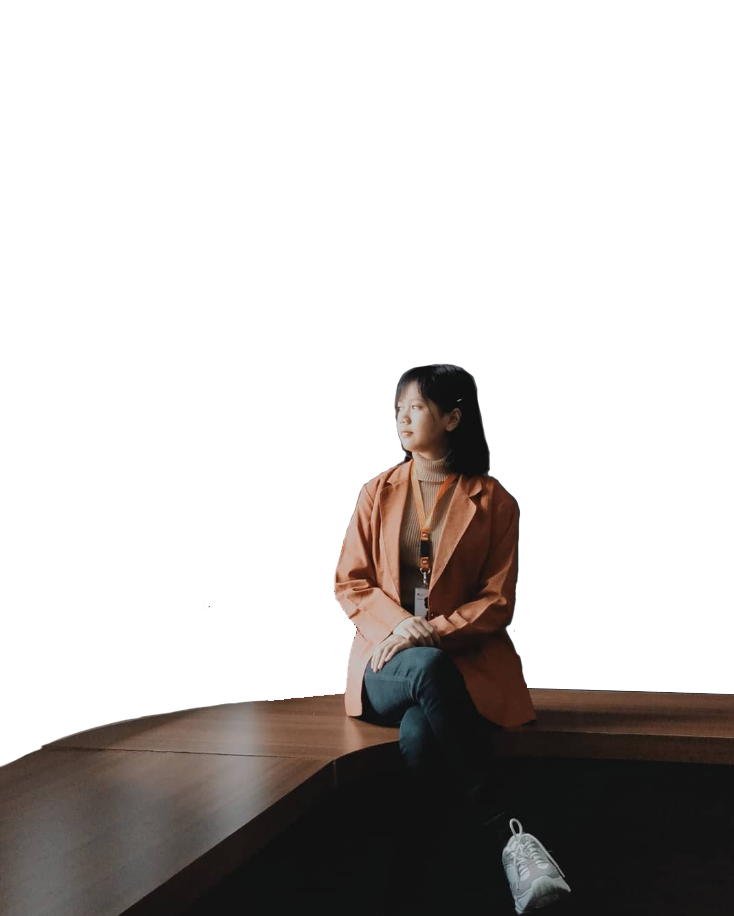
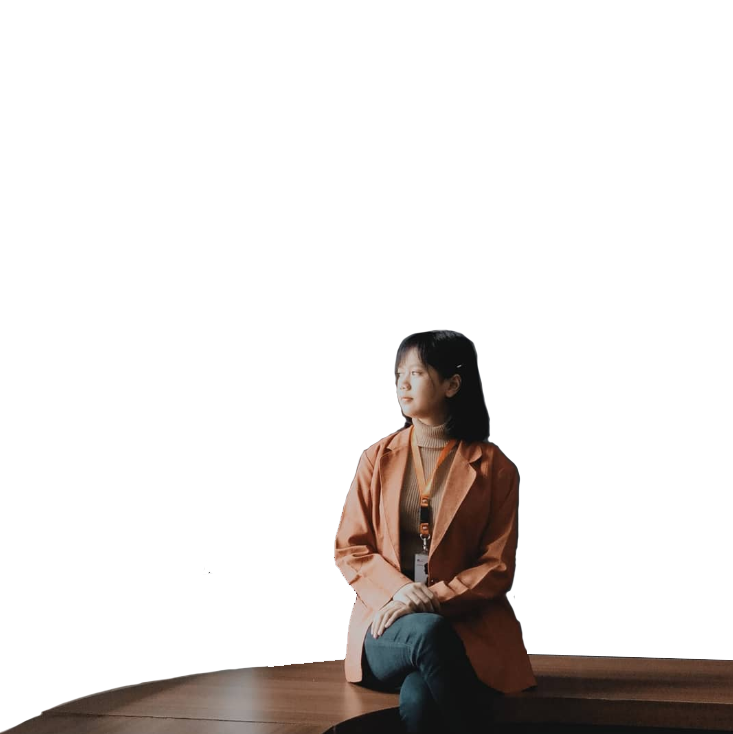
fix img

Changed region(s): [[0.0, 0.3896, 1.0, 1.0]]

diff --git a/public/output.css b/public/output.css
@@ -547,6 +547,11 @@ video {
   margin-right: auto;
 }
 
+.mx-10 {
+  margin-left: 2.5rem;
+  margin-right: 2.5rem;
+}
+
 .flex {
   display: flex;
 }
@@ -563,12 +568,48 @@ video {
   height: 100%;
 }
 
+.h-\[150\%\] {
+  height: 150%;
+}
+
+.h-\[50\%\] {
+  height: 50%;
+}
+
 .w-1\/2 {
   width: 50%;
 }
 
 .w-full {
   width: 100%;
+}
+
+.w-12 {
+  width: 3rem;
+}
+
+.w-10 {
+  width: 2.5rem;
+}
+
+.w-\[150\%\] {
+  width: 150%;
+}
+
+.w-\[50\%\] {
+  width: 50%;
+}
+
+.w-5 {
+  width: 1.25rem;
+}
+
+.w-1\/4 {
+  width: 25%;
+}
+
+.w-3\/4 {
+  width: 75%;
 }
 
 .max-w-7xl {
@@ -581,6 +622,22 @@ video {
 
 .max-w-xs {
   max-width: 20rem;
+}
+
+.flex-initial {
+  flex: 0 1 auto;
+}
+
+.flex-1 {
+  flex: 1 1 0%;
+}
+
+.flex-grow {
+  flex-grow: 1;
+}
+
+.flex-row-reverse {
+  flex-direction: row-reverse;
 }
 
 .flex-wrap {
@@ -634,14 +691,36 @@ video {
   background-color: rgb(228 63 90 / var(--tw-bg-opacity));
 }
 
+.bg-slate-300 {
+  --tw-bg-opacity: 1;
+  background-color: rgb(203 213 225 / var(--tw-bg-opacity));
+}
+
 .object-contain {
   -o-object-fit: contain;
      object-fit: contain;
 }
 
+.p-10 {
+  padding: 2.5rem;
+}
+
+.p-96 {
+  padding: 24rem;
+}
+
+.p-40 {
+  padding: 10rem;
+}
+
 .px-4 {
   padding-left: 1rem;
   padding-right: 1rem;
+}
+
+.py-10 {
+  padding-top: 2.5rem;
+  padding-bottom: 2.5rem;
 }
 
 .text-center {

diff --git a/public/index.html b/public/index.html
@@ -27,11 +27,11 @@
   </div>
 </nav>
 
-  <div class="flex m-16">
-    <div class="mx-auto text-white">
+  <div class="flex">
+    <div class="text-white bg-blue-200 w-1/2">
       <span>Hello, I'm <b>Lintang Arsa Naura</b></span><br>
       <span>A Front-End Web and Design Enthusiast.</span> 
-        <p>
+        <p class="py-10">
           A second-year Informatics major student seeking opportunities in Front-End Web Development and Product Design. 
           With a passion for technology and a curiosity for exploring new possibilities, I thrive on experimenting with the 
           latest tech and programming languages.Balancing teamwork with individual initiative, I'm committed to making valuable 
@@ -41,7 +41,9 @@
           Download CV
         </button>
     </div>
-    <img class="max-w-[20%]" src="https://pbs.twimg.com/media/FwnPKqpX0AIhZ74?format=jpg&name=medium" alt="profile">
+    <div class="bg-secondary w-1/2">
+      <img src="https://raw.githubusercontent.com/LynnArsa/my-web/master/src/profile.png" alt="profile">
+    </div>
   </div>
 
 <p class="text-center text-lg">Projects</p>
